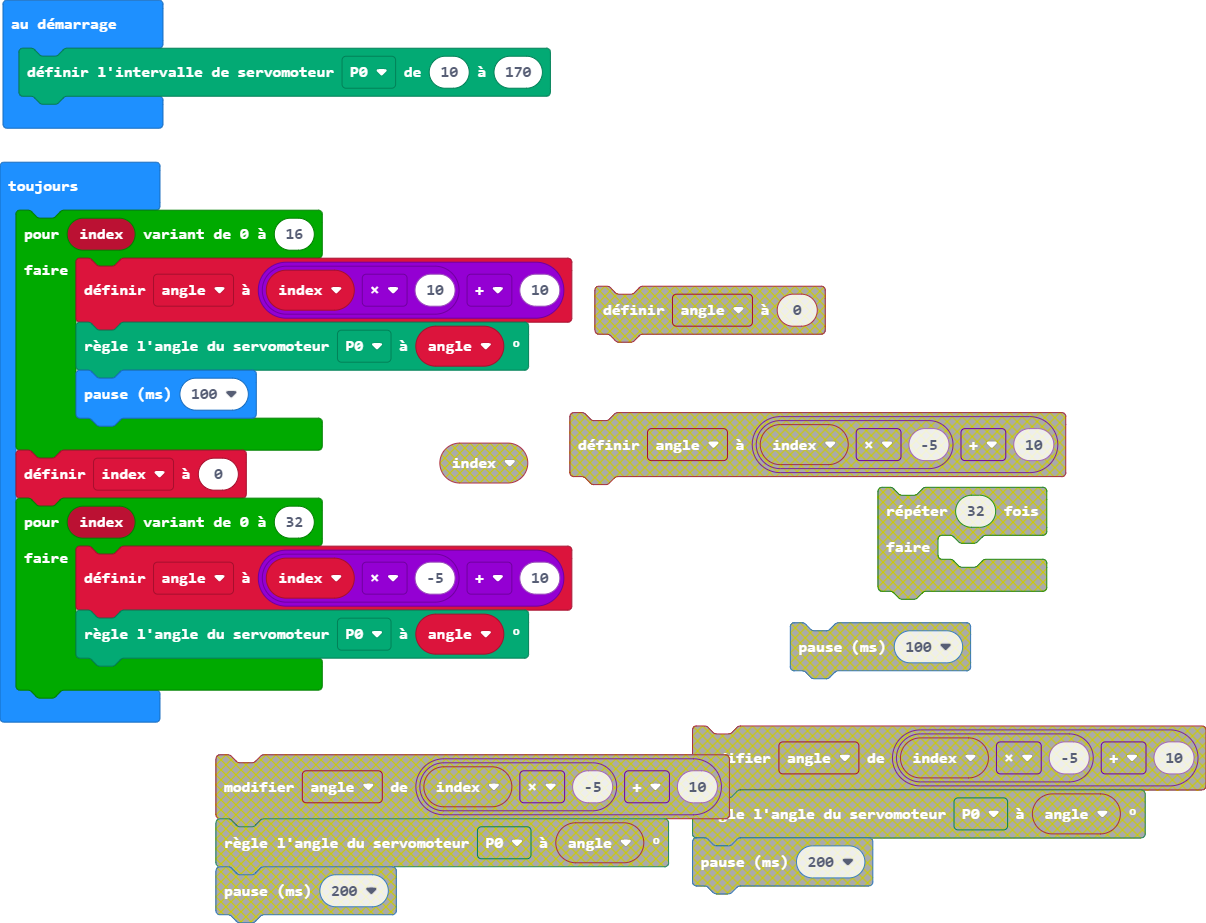
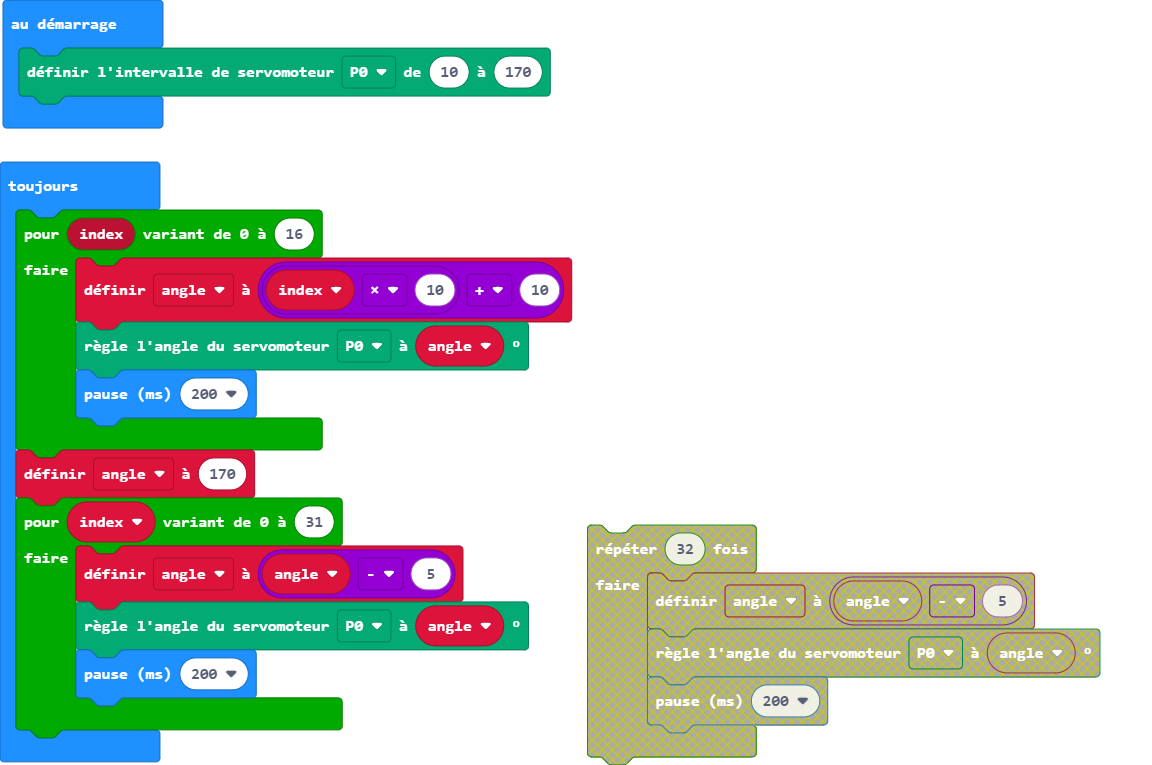
Mise à jour main.blocks, main.ts

diff --git a/main.ts b/main.ts
@@ -1,15 +1,15 @@
-let index = 0
 let angle = 0
 servos.P0.setRange(10, 170)
 basic.forever(function () {
     for (let index = 0; index <= 16; index++) {
         angle = index * 10 + 10
         servos.P0.setAngle(angle)
-        basic.pause(100)
+        basic.pause(200)
     }
-    index = 0
-    for (let index = 0; index <= 32; index++) {
-        angle = index * -5 + 10
+    angle = 170
+    for (let index = 0; index <= 31; index++) {
+        angle = angle - 5
         servos.P0.setAngle(angle)
+        basic.pause(200)
     }
 })
